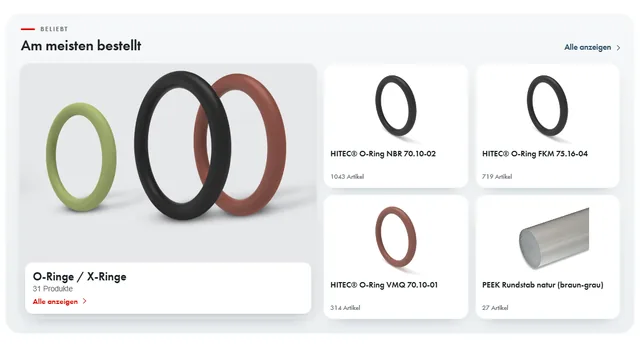
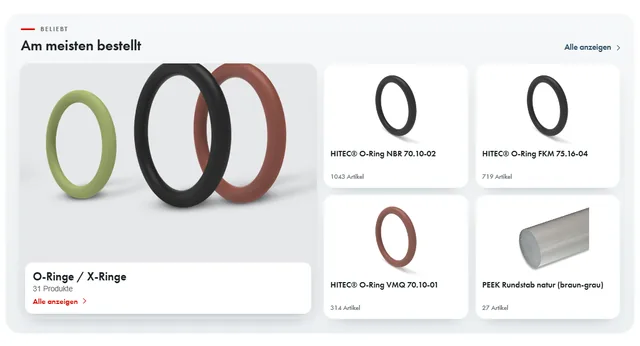
Page builder modules: a store view in the Swiss shop's EUR keeps its visitors there (/de-CH/eur/ links, the de-CH catalogue read), the shop is read at a person's pace (0.4 s between new reads - its firewall answers a burst with 429) and a number whose page cannot be read is listed as not found inste

Changed region(s): [[0.0625, 0.1734, 0.4688, 0.6647]]

diff --git a/src/lib/content/studio/kinds/page/modules/render.ts b/src/lib/content/studio/kinds/page/modules/render.ts
@@ -84,7 +84,7 @@ const CARD_CAT = `@@ .am-pc.is-cat>i{margin-bottom:8px;background:var(--tile)}
 const BIG = `
 @@ .am-big{position:relative;display:flex;flex-direction:column;justify-content:flex-end;min-width:0;min-height:0;border-radius:18px;background:var(--tile);overflow:hidden;
   color:var(--ink)!important;box-shadow:0 12px 30px -22px rgba(27,58,75,.55)}
-@@ .am-big img{position:absolute;left:0;top:0;width:100%;height:100%;object-fit:cover;transition:transform .5s}
+@@ .am-big img{position:absolute;left:0;top:0;width:100%;height:calc(100% - 46px);object-fit:cover;transition:transform .5s}
 @@ .am-big.is-prod{background:#fff;box-shadow:0 12px 30px -22px rgba(27,58,75,.55),inset 0 0 0 1px #edf0f2}
 @@ .am-big.is-prod img{left:8%;top:4%;width:84%;height:72%;object-fit:contain;mix-blend-mode:multiply;filter:brightness(1.05) contrast(1.07)}
 @@ .am-big:hover img{transform:scale(1.04)}
@@ -109,7 +109,15 @@ function header(s: ModuleSettings, all = true): string {
 /** A link to the shop, written from the page's own host: the same module works on ACC and on the live shop (and in the
  * studio's preview, whose page carries the shop's address as its base). Pictures stay absolute on www - ACC lacks some
  * media files (the kit, 05.11). */
-export const href = (u: string) => esc(u.replace(/^https:\/\/(www|acc)\.apsoparts\.com(?=\/)/i, ""));
+export const href = (u: string) => {
+  const path = u.replace(/^https:\/\/(www|acc)\.apsoparts\.com(?=\/)/i, "");
+  // a store view in another currency (the Swiss shop's EUR: "de-CH/eur") keeps its visitors there: /de-CH/x -> /de-CH/eur/x
+  const cur = drawing.store && /^[a-z]{2}-[A-Z]{2,3}\/[a-z]{3}$/.test(drawing.store) ? drawing.store : null;
+  const base = cur ? cur.split("/")[0] : null;
+  return esc(cur && base && path.startsWith(`/${base}/`) && !path.startsWith(`/${cur}/`) ? `/${cur}${path.slice(base.length + 1)}` : path);
+};
+/** The store view of the module being drawn (moduleParts sets it - drawing is synchronous). */
+const drawing: { store: string | null } = { store: null };
 
 function pic(c: Card, o: Opts, lazy = true): string {
   if (!c.img) return "";
@@ -502,7 +510,9 @@ const DRAW: Record<ModuleRef["type"], (m: ModuleRef, o: Opts) => { html: string;
 export function moduleParts(m: ModuleRef, o: Opts = {}): { cls: string; css: string; html: string } {
   const cls = `apx-${m.settings.id}`;
   const w = wordsFor(m.settings.store);
-  const d = DRAW[m.type](m, o);
+  drawing.store = m.settings.store;
+  let d: { html: string; css: string };
+  try { d = DRAW[m.type](m, o); } finally { drawing.store = null; }
   const css = minifyCss(`${BASE}${d.css}`.replace(/%GOCAT%/g, cssStr(w.goCat)).replace(/%GO%/g, cssStr(w.go))).split("@@").join(`.${cls}`);
   return { cls, css, html: d.html };
 }

diff --git a/src/lib/content/studio/kinds/page/modules/source.ts b/src/lib/content/studio/kinds/page/modules/source.ts
@@ -32,8 +32,17 @@ const pathOf = (url: string) => { try { return new URL(url, BASE).pathname; } ca
 const STORE_RE = /^[a-z]{2}-[A-Z]{2,3}$/;
 
 class ShopBusy extends Error {}
+/** At a person's pace: a read the shop has not answered before waits 0.4 s after the last one (its firewall answers a
+ * burst with 429) - a page read in the last ten minutes comes from APSOconvert's reader at once. */
+let lastRead = 0;
+async function pace(): Promise<void> {
+  const wait = lastRead + 400 - Date.now();
+  lastRead = Math.max(Date.now(), lastRead + 400);
+  if (wait > 0) await new Promise((r) => setTimeout(r, wait));
+}
 async function readShop(path: string): Promise<string> {
   try {
+    await pace();
     const p = await shopPage(ENV, path);
     if (p.status === 429) throw new ShopBusy("The shop asks the hub to slow down - try again in a minute.");
     if (p.status !== 200) throw new Error(`The shop answered ${p.status} for ${path}.`);
@@ -147,7 +156,7 @@ export async function cardsForNumbers(text: string, store: string, max = 12): Pr
   for (const o of order) {
     if (seen.has(o.product) || cards.length >= max) continue;
     seen.add(o.product);
-    const r = await productCard(o.product, store);
+    const r = await productCard(o.product, store).catch((e) => ({ card: null, why: String((e as Error).message ?? e).slice(0, 160) }));
     if (r.card) cards.push(r.card);
     else missing.push({ number: o.number, why: r.why });
   }

diff --git a/src/lib/content/studio/kinds/page/modules/server.ts b/src/lib/content/studio/kinds/page/modules/server.ts
@@ -18,12 +18,14 @@ import { aiCandidates, cardsForNumbers, cardsForPicks, categoryCard, shopCategor
 import type { TreeNode } from "./parse";
 import { MODULE_FILL_SCHEMA, MODULE_FILL_SYSTEM, candidatesIn, cleanPick, moduleFillUser } from "./ai";
 
-const STORE_RE = /^[a-z]{2}-[A-Z]{2,3}$/;
-/** The store view asked for, else the one shown ("lang"), else the page's own. */
+const STORE_RE = /^([a-z]{2}-[A-Z]{2,3})(\/[a-z]{3})?$/;
+/** The store view whose shop is read: the one asked for, else the one shown ("lang"), else the page's own - a store view
+ * in another currency ("de-CH/eur") reads its own language's (the same catalogue; the module writes its links there). */
 function storeIn(raw: unknown, input: Record<string, unknown>, language: string | null): string {
-  if (typeof input.store === "string" && STORE_RE.test(input.store)) return input.store;
+  const asked = typeof input.store === "string" ? STORE_RE.exec(input.store) : null;
+  if (asked) return asked[1];
   const d = viewOf(pageDoc(raw, language), typeof input.lang === "string" ? input.lang : null);
-  return STORE_RE.test(d.store) ? d.store : "de-CH";
+  return STORE_RE.exec(d.store)?.[1] ?? "de-CH";
 }
 const countIn = (input: Record<string, unknown>, max = 12) => Math.max(1, Math.min(max, Math.round(Number(input.count) || 6)));
 const urlIn = (input: Record<string, unknown>) => s(input.url, 400);

diff --git a/src/app/projects/studio/kinds/page/Studio.tsx b/src/app/projects/studio/kinds/page/Studio.tsx
@@ -932,7 +932,7 @@ export default function Studio({ api }: StudioProps) {
     <>
       <StudioPanes id="page" buildWidth={410} assistWidth={340} hideBuild={fold.build} hideAssist={fold.assist}
         build={modules.editing ? (
-          <ModulePanel ctl={modules} api={api} onBack={() => modules.edit(null)}
+          <ModulePanel key={modules.editing} ctl={modules} api={api} onBack={() => modules.edit(null)}
             pageCategory={d.pageKind === "category" && d.path ? { name: d.outline?.path === d.path ? d.outline.h1[0] ?? "This category" : "This category", url: `https://www.apsoparts.com${d.path}` } : null} />
         ) : <Build api={api} doc={doc} d={d} lang={lang} onLang={openView} groups={groups} presence={presence} set={setDoc} setView={setView} hits={hits} step={step} onStep={setStep}
           sel={sel} setSel={setSel} fill={fill} busy={busyHere} canAi={aiHere} onEditInPage={() => setEditNonce((n) => n + 1)} onAskAi={askAi}

diff --git a/tests/studio-page-modules.test.ts b/tests/studio-page-modules.test.ts
@@ -256,3 +256,12 @@ test("a new page keeps its modules, each after a block; a module still lacking s
   assert.deepEqual(blockOrder(f), ["hero", "intro"], "the blocks' order is the blocks'");
   assert.equal(normalizeFields({ hero: { title: "x" } }).modules, undefined, "a page without modules has none");
 });
+
+test("a store view in another currency keeps its visitors there (the Swiss shop's EUR)", () => {
+  const m = filled("row");
+  m.settings.store = "de-CH/eur";
+  const html = renderModule(m);
+  assert.match(html, /href="\/de-CH\/eur\/11400101-/);
+  assert.match(html, /content:"Zum Produkt/);
+  assert.equal(href(`${B}/de-CH/x.html`), "/de-CH/x.html", "outside a drawing, links stay as they are");
+});

diff --git a/src/app/projects/studio/kinds/page/modules/Panel.tsx b/src/app/projects/studio/kinds/page/modules/Panel.tsx
@@ -43,7 +43,7 @@ function countFor(m: ModuleRef): number {
   const s = m.settings;
   switch (m.type) {
     case "row": return s.layout === "grid4" ? 8 : s.layout === "grid" ? 10 : 8;
-    case "bento": return s.layout === "wide" ? 6 : 4;
+    case "bento": return (s.layout === "wide" ? 6 : 4) + (s.feature ? 0 : 1); // without a big tile of its own, the first product is it
     case "finder": return 5;
     case "mosaic": return s.layout === "4" ? 8 : s.layout === "2" ? 4 : 6;
     case "cards": return s.layout === "4" ? 4 : s.layout === "2" ? 2 : 3;

diff --git a/src/lib/content/studio/kinds/page/modules/model.ts b/src/lib/content/studio/kinds/page/modules/model.ts
@@ -92,7 +92,7 @@ export const MODULE_KINDS: ModuleKind[] = [
   },
   {
     type: "bento", name: "Product bento", note: "A big tile and the products beside it",
-    takes: "products", max: 6, min: 2, from: "home page version A (Calm drill-down)",
+    takes: "products", max: 7, min: 2, from: "home page version A (Calm drill-down)",
     layouts: [{ key: "left", label: "Big tile left" }, { key: "right", label: "Big tile right" }, { key: "wide", label: "Big tile + 6" }],
     fields: ["eyebrow", "title", "link", "feature"],
   },
